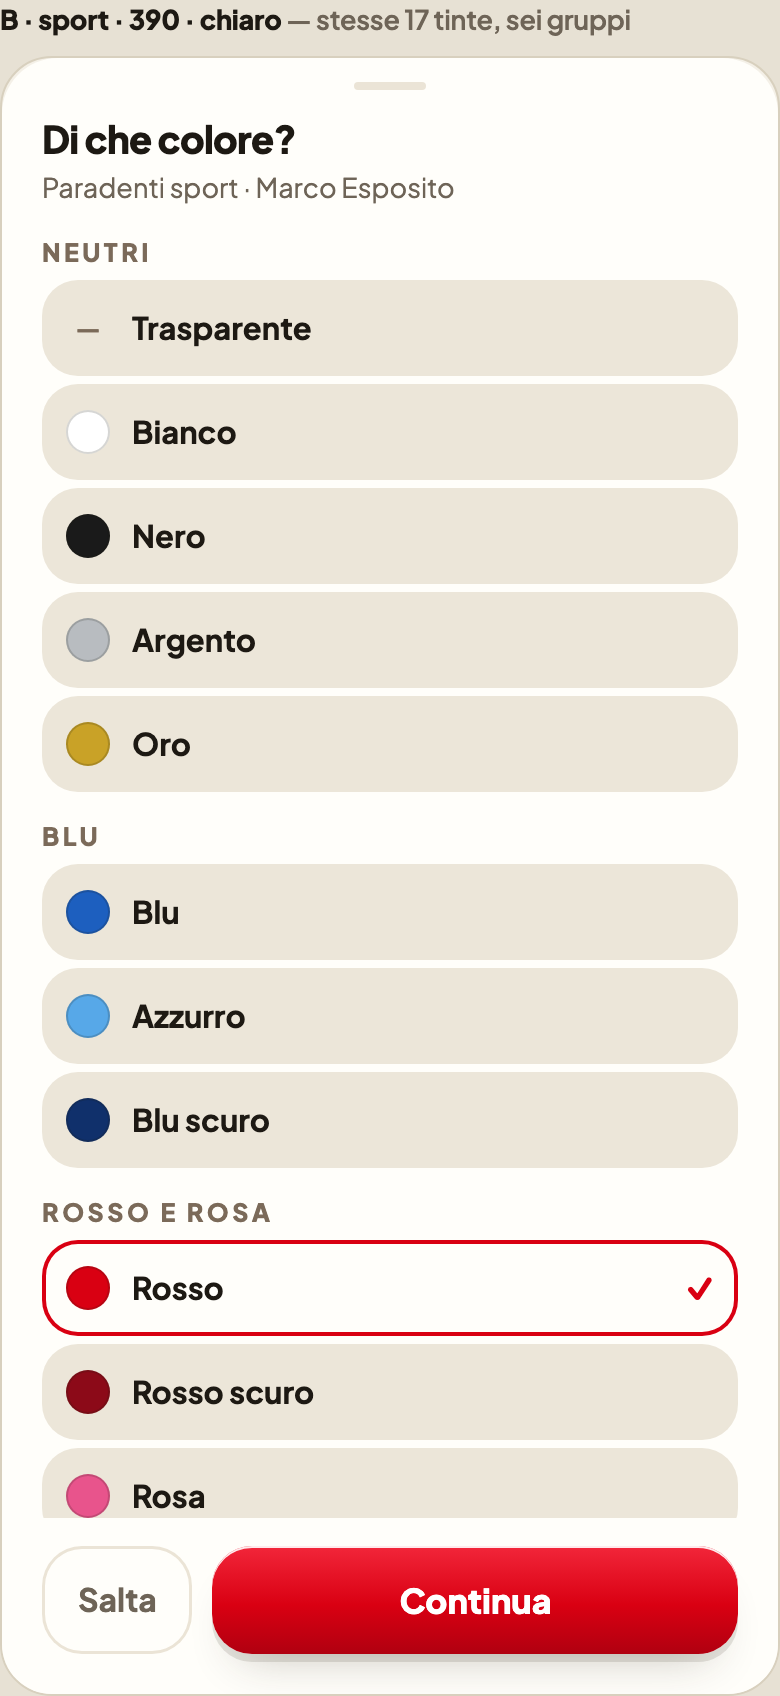
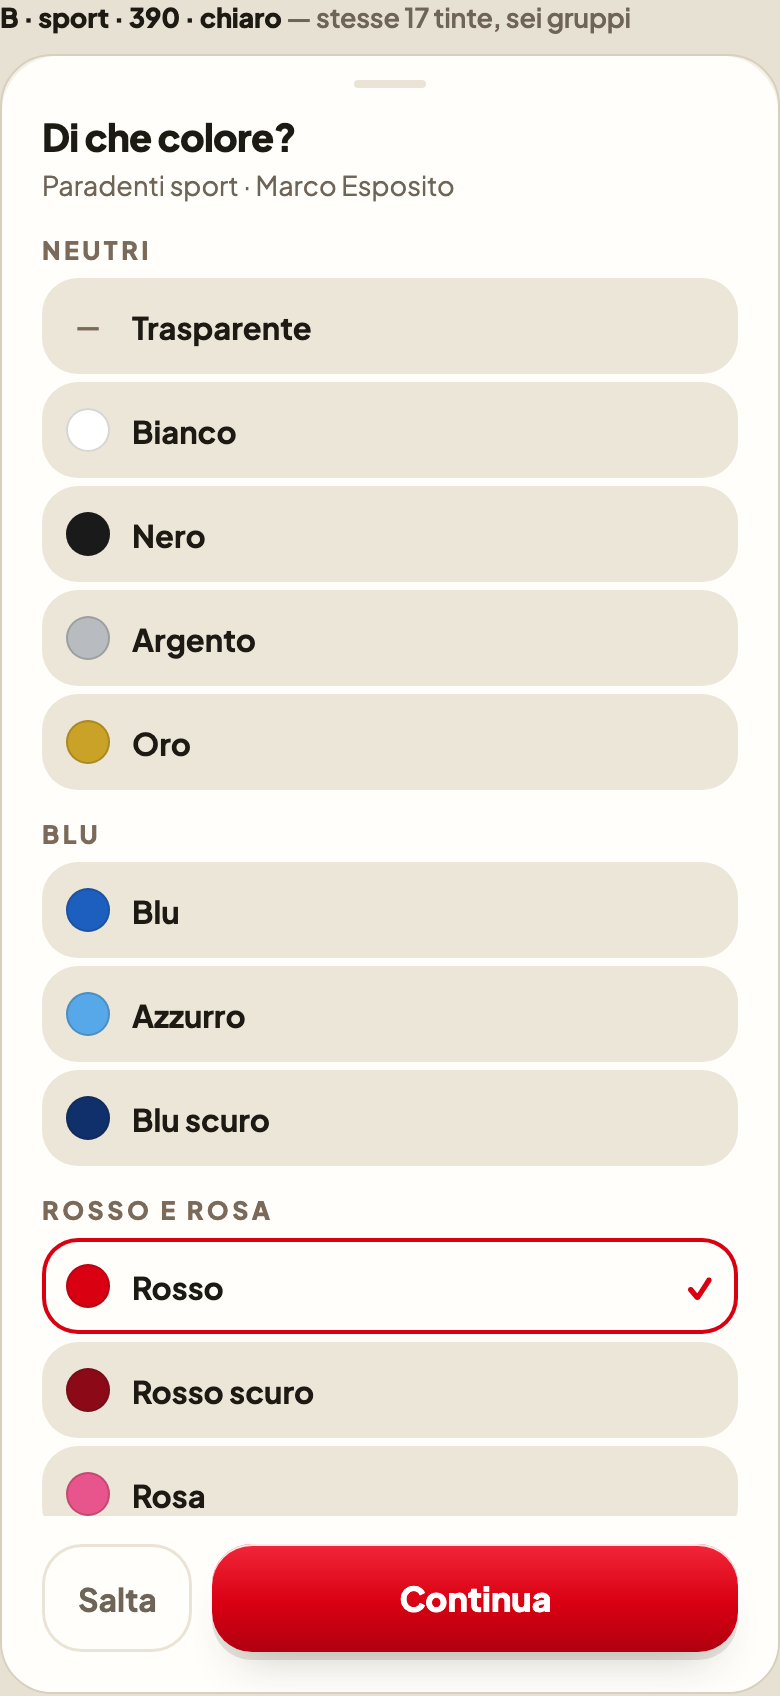
design(D42): la tavolozza è la GRIGLIA (D119), e i 211 scatti entrano (D120)
D119 — variante A scelta sul mockup: le diciassette tinte stanno in una
schermata sola, mentre l'elenco raggruppato ne mostrava dodici su diciassette.
La variante B resta nel mockup con la sua ragione: se un domani le tinte
diventassero quaranta, la scelta si riapre da lì.

Due difetti del mockup trovati GUARDANDO e corretti:
- «Glitter multicolore» andava a capo e con le pastiglie ad altezza libera
  quella sola diventava più alta, sfasando la riga → righe a altezza fissa (60),
  il nome lungo si dispone su due righe dentro la stessa altezza;
- il blocco dell'avviso di D117 era formattato male (segnalato da Francesco):
  rifatto DENTRO la pagina di modifica, dove l'avviso prende il posto del campo
  della tinta sotto la sua etichetta, invece di essere un cartello che galleggia
  con una didascalia appiccicata sotto.

D120 — i 211 scatti mai salvati (56,3 MB) entrano nel repo, comprese le
anteprime su cui sono state approvate ondate passate.

Verbale: centoventi decisioni in trentasette tornate.

diff --git a/docs/design/mockups/2026-08-03-tinte-manufatto-due-tavolozze.html b/docs/design/mockups/2026-08-03-tinte-manufatto-due-tavolozze.html
@@ -97,11 +97,15 @@ p.dida{margin:4px 0 14px; font-size:13.5px; color:var(--muted); line-height:1.4}
 }
 
 /* ══ VARIANTE A — griglia di pastiglie ══════════════════════════════════ */
-.grigliaA{display:grid; grid-template-columns:1fr 1fr; gap:8px}
+/* 🔴 RIGHE A ALTEZZA FISSA. Trovato guardando lo scatto, non prevedendolo:
+   «Glitter multicolore» va a capo e con `min-height` quella sola pastiglia
+   diventava più alta, sfasando la riga. Con `grid-auto-rows` la griglia resta
+   pari e il nome lungo si dispone su due righe DENTRO la stessa altezza. */
+.grigliaA{display:grid; grid-template-columns:1fr 1fr; gap:8px; grid-auto-rows:60px}
 .w768 .grigliaA, .w1280 .grigliaA{grid-template-columns:1fr 1fr 1fr}
 .pillA{
   display:flex; align-items:center; gap:9px;
-  min-height:54px; padding:0 12px;
+  height:100%; padding:0 12px;
   border:none; border-radius:18px;
   background:var(--bg-deep); color:var(--ink);
   font-family:inherit; font-size:14.5px; font-weight:700; text-align:left;
@@ -167,10 +171,10 @@ p.dida{margin:4px 0 14px; font-size:13.5px; color:var(--muted); line-height:1.4}
 
 .avviso{
   display:flex; gap:10px; align-items:flex-start;
-  width:100%; max-width:480px; margin:0 auto;
-  padding:14px 16px; border-radius:18px;
-  background:#F8F0E1; color:#1D1913; font-size:14.5px; line-height:1.45; font-weight:600;
+  width:100%; min-height:56px; padding:14px 16px; border-radius:18px;
+  background:#F8F0E1; color:#1D1913; font-size:15px; line-height:1.4; font-weight:600;
 }
+.avviso .ico{font-size:17px; line-height:1.35; flex:none}
 .notte .avviso{background:rgba(232,161,61,.14); color:#F2EEE7}
 .avviso b{font-weight:800}
 
@@ -193,11 +197,19 @@ p.dida{margin:4px 0 14px; font-size:13.5px; color:var(--muted); line-height:1.4}
 </p>
 
 <!-- ═══════════════════════════════════════════════════════════════════════ -->
-<h2 class="sez">① Variante A — griglia di pastiglie</h2>
+<h2 class="sez">① Variante A — griglia di pastiglie &nbsp;✅ <span style="color:#D90012">SCELTA DA FRANCESCO (D119)</span></h2>
 <p class="sez-nota">
-  Due colonne, come il foglio delle categorie della foto già approvato il 2 agosto. Si vede più roba senza
-  scorrere; il nome sta su una riga sola anche per «Arancione» e «Blu scuro». <b>Il prezzo:</b> le tinte
-  arrivano tutte insieme, senza un ordine che aiuti l'occhio — chi cerca «il verde» scorre finché non lo vede.
+  Due colonne, come il foglio delle categorie della foto già approvato il 2 agosto. <b>Ci stanno tutte e
+  diciassette in una schermata sola:</b> niente da scorrere, si sceglie a colpo d'occhio. <b>Il prezzo,
+  dichiarato:</b> le tinte arrivano tutte insieme, senza un ordine che guidi — chi cerca «il verde» lo cerca
+  con gli occhi.
+</p>
+<p class="sez-nota">
+  🔴 <b>Un difetto trovato guardando lo scatto, e corretto qui:</b> nella famiglia della resina «Glitter
+  multicolore» va a capo, e con le pastiglie ad altezza libera quella sola diventava più alta, sfasando la
+  riga. Le righe della griglia sono ora ad <b>altezza fissa (60)</b>: il nome lungo si dispone su due righe
+  dentro la stessa altezza, e la griglia resta pari. È il motivo per cui i mockup si guardano con i dati veri
+  invece di descriverli.
 </p>
 
 <div class="fila">
@@ -277,11 +289,13 @@ p.dida{margin:4px 0 14px; font-size:13.5px; color:var(--muted); line-height:1.4}
 </div>
 
 <!-- ═══════════════════════════════════════════════════════════════════════ -->
-<h2 class="sez">② Variante B — elenco raggruppato per famiglia di colore</h2>
+<h2 class="sez">② Variante B — elenco raggruppato per famiglia di colore &nbsp;<span style="color:var(--pagina-muted)">— non scelta, si conserva</span></h2>
 <p class="sez-nota">
   Una riga per tinta, a tutta larghezza, con le voci raccolte in gruppi. <b>Il vantaggio:</b> chi cerca «un
   verde» va dritto al gruppo dei verdi invece di scorrere tutto, e il nome si legge intero senza compressione.
-  <b>Il prezzo:</b> si scorre di più, e i titoletti dei gruppi rubano spazio.
+  <b>Il prezzo, ed è quello che l'ha fatta scartare:</b> ne mostra <b>dodici su diciassette</b> — si scorre — e
+  i titoletti dei gruppi rubano spazio. <b>Resta qui</b> perché una strada scartata con la sua ragione vale
+  più di una strada dimenticata: se un domani le tinte diventassero quaranta, la scelta si riapre da qui.
 </p>
 
 <div class="fila">
@@ -615,27 +629,42 @@ p.dida{margin:4px 0 14px; font-size:13.5px; color:var(--muted); line-height:1.4}
 <div class="fila" style="margin-top:26px">
 
   <div class="caso">
-    <div class="targa">Modifica · il campo · chiaro</div>
-    <div class="tel piatta" style="padding:24px 20px">
+    <div class="targa">Modifica · prima · chiaro <em>— com'è normalmente</em></div>
+    <div class="tel piatta" style="padding:22px 20px">
       <div class="campoMod">
+        <label>Tipo di lavoro</label>
+        <button class="selettore">Paradenti sport<span class="chev">›</span></button>
+      </div>
+      <div class="campoMod" style="margin-top:18px">
         <label>Tinta</label>
         <button class="selettore"><span class="pal" style="background:#D90012"></span>Rosso<span class="chev">›</span></button>
-        <p class="notaCampo">Si tocca e si apre la stessa tavolozza del wizard. Per toglierla si sceglie «Nessuna tinta» in cima all'elenco.</p>
       </div>
     </div>
+    <p class="legenda">
+      Si tocca e si apre <b>la stessa tavolozza del wizard</b>: una forma sola, imparata una volta.
+      Per togliere la tinta si sceglie «Nessuna tinta», che sta in cima all'elenco.
+    </p>
   </div>
 
   <div class="caso">
-    <div class="targa">Modifica · l'avviso di D117 · chiaro</div>
-    <div class="tel piatta" style="padding:24px 20px">
-      <div class="avviso">
-        <span style="font-size:18px; line-height:1.2">⚠</span>
-        <span>Hai cambiato il tipo in <b>Corona in zirconia</b>: la tinta <b>Rosso</b> è stata tolta, perché su una protesi fissa non si usa.</span>
+    <div class="targa">Modifica · dopo il cambio di tipo · chiaro <em>— D117</em></div>
+    <div class="tel piatta" style="padding:22px 20px">
+      <div class="campoMod">
+        <label>Tipo di lavoro</label>
+        <button class="selettore">Corona in zirconia<span class="chev">›</span></button>
       </div>
-      <p class="legenda" style="margin-top:14px">
-        Il salvataggio <b>riesce</b>: la tinta viene tolta e l'avviso lo dichiara. Togliere sì, in silenzio mai.
-      </p>
+      <div class="campoMod" style="margin-top:18px">
+        <label>Tinta</label>
+        <div class="avviso">
+          <span class="ico">⚠</span>
+          <span>La tinta <b>Rosso</b> è stata tolta: su una <b>protesi fissa</b> non si usa.</span>
+        </div>
+      </div>
     </div>
+    <p class="legenda">
+      Il salvataggio <b>riesce</b>. Al posto del campo compare il motivo, dove il campo stava:
+      <b>togliere sì, in silenzio mai.</b>
+    </p>
   </div>
 
 </div>

diff --git a/docs/design/decisions/2026-07-28-wizard-ondata-b-decisioni.md b/docs/design/decisions/2026-07-28-wizard-ondata-b-decisioni.md
@@ -1,8 +1,8 @@
 # Verbale — decisioni di apertura dell'ondata (b), wizard «Nuovo lavoro»
 
-**Data:** 28 luglio 2026 · **aggiornato alla trentaseiesima tornata (D42, la forma del dato e le superfici)** ·
+**Data:** 28 luglio 2026 · **aggiornato alla trentasettesima tornata (D42, la tavolozza scelta sul mockup)** ·
 **Decide:** Francesco Formicola · **Stato:** ratificato in sessione
-**Centodiciotto decisioni in trentasei tornate:** D1-D8 in apertura · D9-D16 sui mockup · **D17-D20 alla ratifica della
+**Centoventi decisioni in trentasette tornate:** D1-D8 in apertura · D9-D16 sui mockup · **D17-D20 alla ratifica della
 spec**, la sera. ✅ Con la terza tornata la spec dell'ondata (b) è **RATIFICATA**
 (`docs/superpowers/specs/2026-07-28-wizard-ondata-b-schermate-design.md`).
 **Nasce da:** `docs/roadmap/2026-07-28-ondata-b-handoff.md` (punto di ripresa) + spec ratificata
@@ -802,3 +802,15 @@ voce 9 di roadmap). Se un giorno si vorrà, sarà una decisione con panel normat
 | **D116** | 📋 **Il contenuto dei due elenchi è preso così com'è stato proposto** | Francesco: «*la forma va bene, prendo il contenuto così*» | ⚠ **Cambia lo STATUTO di quelle liste, e va scritto:** la lista **sport** ricalca una gamma reale ([dischi Erkoflex, Erkodent](https://glidewelldental.com/solutions/in-office-thermoforming/thermoforming-discs/erkoflex-thermoforming-discs)) ed è **fonte esterna**; la lista **resina** è **mia**, non di un fornitore — la pagina Dentaurum descrive le famiglie (classici, neon, glitter, bianco/nero, trasparente) ma **non un elenco di nomi**. Presa così, quella lista vale come **decisione esplicita di Francesco** (quarta prova dello statuto delle fonti), **non** come ricerca: chi la leggerà non deve poterla scambiare per una gamma commerciale accertata |
 | **D117** | 🔄 **Se il tipo di lavoro cambia e la tinta non è più compatibile, il server la TOGLIE e lo DICHIARA nella risposta** | scelta di Francesco fra togliere-e-dichiarare / rifiutare il salvataggio / avviso preventivo | Il salvataggio riesce sempre; la schermata dice «ho tolto la tinta, non c'entrava col nuovo tipo». 🔑 **Nasce da un fatto misurato, non da un'ipotesi:** `tipo_dispositivo` **è già** in `PATCHABLE_FIELDS` (`src/app/api/lavori/[id]/route.ts:179`), quindi senza questo trattamento il CHECK di D111 farebbe fallire una correzione legittima con un errore grezzo. 🛑 **Il confine:** togliere sì, in silenzio mai — una perdita non dichiarata è peggio del salvataggio fallito |
 | **D118** | 👁 **Tre superfici, non due: passo del wizard · pagina di modifica · e la scheda in SOLA LETTURA** | proposta accolta da Francesco nell'approvazione della sezione | Il tecnico al banco apre il lavoro e legge «Tinta: Rosa» senza entrare in modifica. 🛑 **E vale §0B senza sconti:** prima del React vanno i **mockup HTML** con dati veri, **più varianti** (mai una sola), su 390/768/1280 e in chiaro e scuro. ⚠ **Una domanda lasciata aperta APPOSTA per il mockup:** con 17 tinte sportive la tavolozza su 390 px diventa lunga — griglia di pastiglie col pallino, oppure elenco per gruppi di colore? Si porteranno **disegnate tutte e due**, non descritte |
+
+---
+
+### Trentasettesima tornata — D42: la tavolozza scelta sul mockup, e gli scatti che non si salvavano (D119-D120)
+
+| n. | La decisione | Come è stata presa | Ragioni e conseguenze |
+|---|---|---|---|
+| **D119** | 🎨 **La tavolozza è la GRIGLIA di pastiglie (variante A)** | scelta di Francesco sul mockup `docs/design/mockups/2026-08-03-tinte-manufatto-due-tavolozze.html`, fra griglia / elenco raggruppato / griglia con gruppi dentro | ✅ **Ci stanno tutte e diciassette in una schermata sola**: niente da scorrere, si sceglie a colpo d'occhio. La variante B ne mostrava **dodici su diciassette**. ⚠ **Prezzo dichiarato:** le tinte arrivano tutte insieme, senza un ordine che guidi — chi cerca «il verde» lo cerca con gli occhi. 📌 **La B resta nel mockup, non si cancella:** se un domani le tinte diventassero quaranta, la scelta si riapre da lì con la sua ragione già scritta. 🔴 **E il mockup ha trovato un difetto che nessuno aveva previsto:** «Glitter multicolore» va a capo, e con le pastiglie ad altezza libera quella sola diventava più alta sfasando la riga — corretto con **righe a altezza fissa (60)**, il nome lungo si dispone su due righe dentro la stessa altezza. È il motivo per cui i mockup si guardano coi dati veri invece di descriverli |
+| **D120** | 💾 **I 211 scatti mai salvati entrano nel repo** (56,3 MB) | scelta di Francesco fra lasciarli fuori / salvarli tutti / salvare solo quelli delle ondate vive | 🔑 **Il fatto che l'ha resa necessaria:** il file delle esclusioni ignorava `*.png` con la ragione «screenshot di debug», mentre **§0B rende gli scatti dei mockup obbligatori e li vuole nel repo** («MAI in /tmp — i file /tmp vengono cancellati, le decisioni si perdono»). In quella cartella ce n'erano già **343 versionati**, ognuno **forzato a mano** contro la regola: un gesto da ricordare a ogni ondata è un gesto che prima o poi salta — ed era già saltato 211 volte, comprese **le anteprime su cui sono state approvate ondate passate**. Aggiunte due eccezioni mirate al file delle esclusioni, `provato:` uno scatto di mockup **non è più ignorato** e `scripts/tmp/*.png` (le immagini di debug vere, che è ciò che la regola voleva escludere) **resta ignorato**. ⚠ **Prezzo accettato:** il repo cresce di 56 MB |
+
+📌 **Con D119 la spec non cambia:** la §5.1 lasciava la domanda aperta **apposta** per il mockup, e ora ha
+la sua risposta. Il piano parte da qui.
